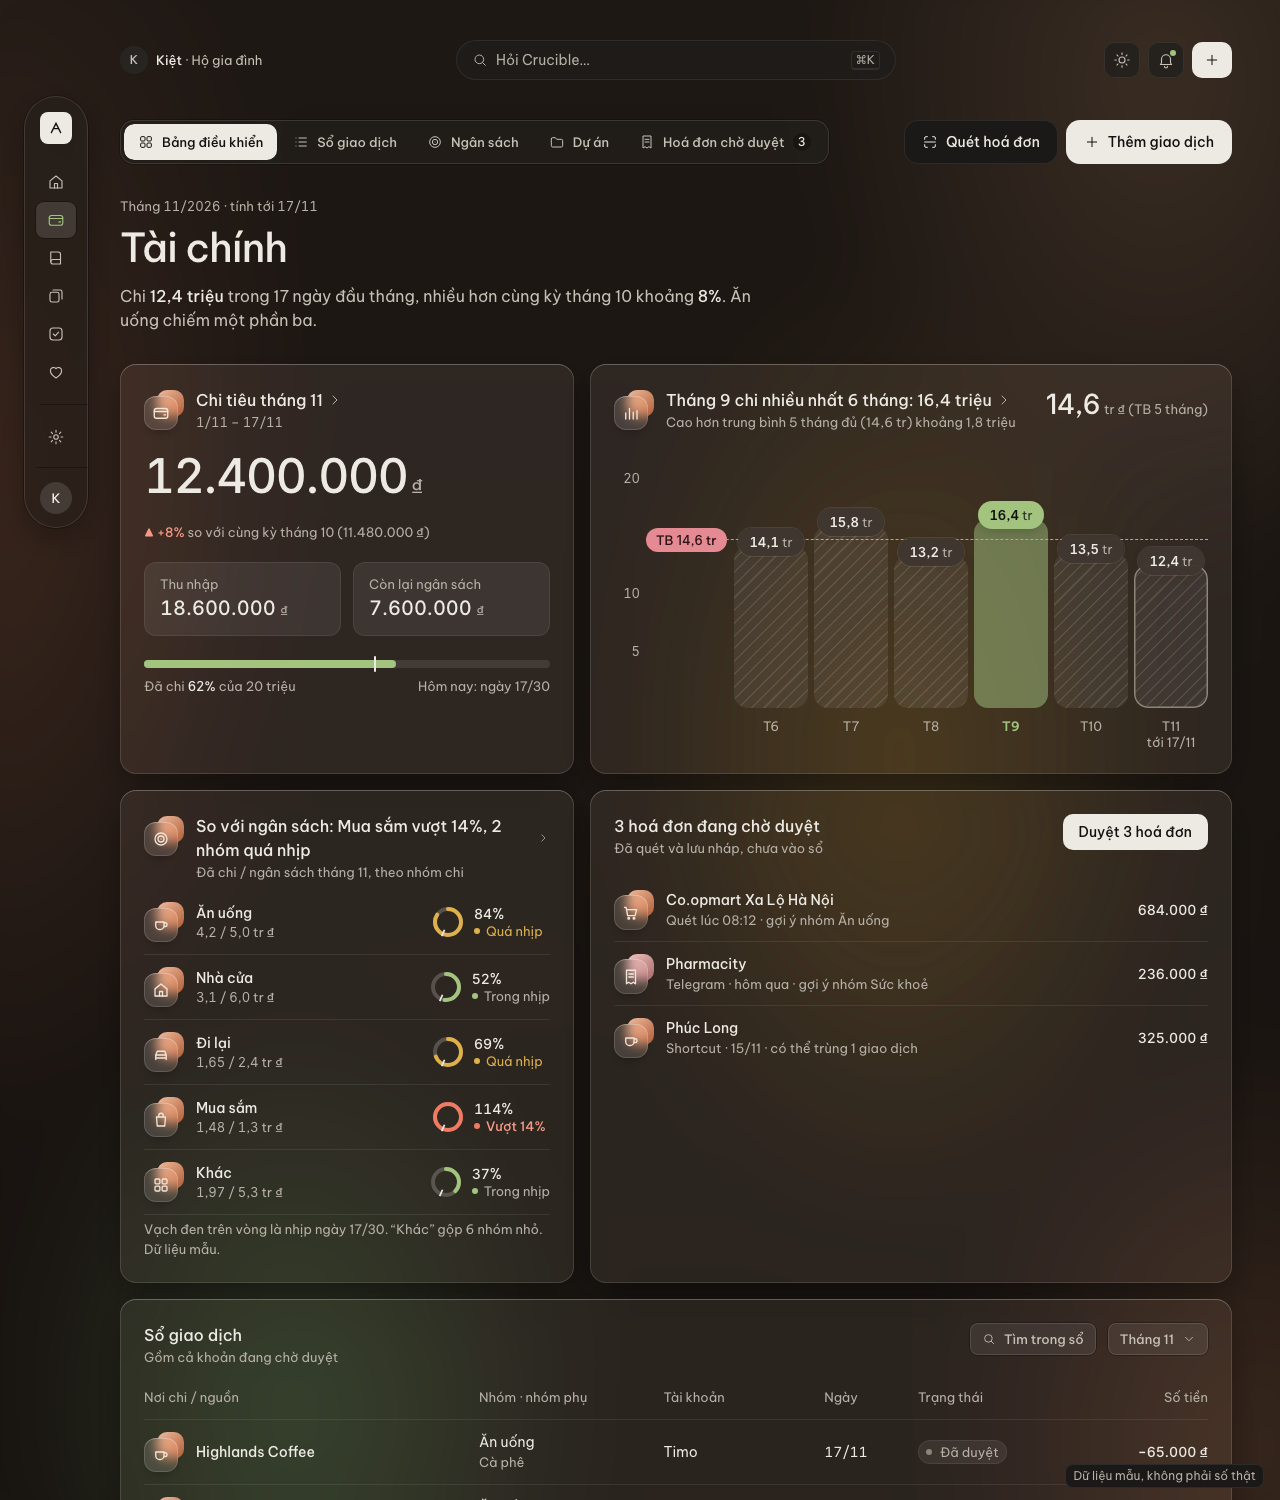
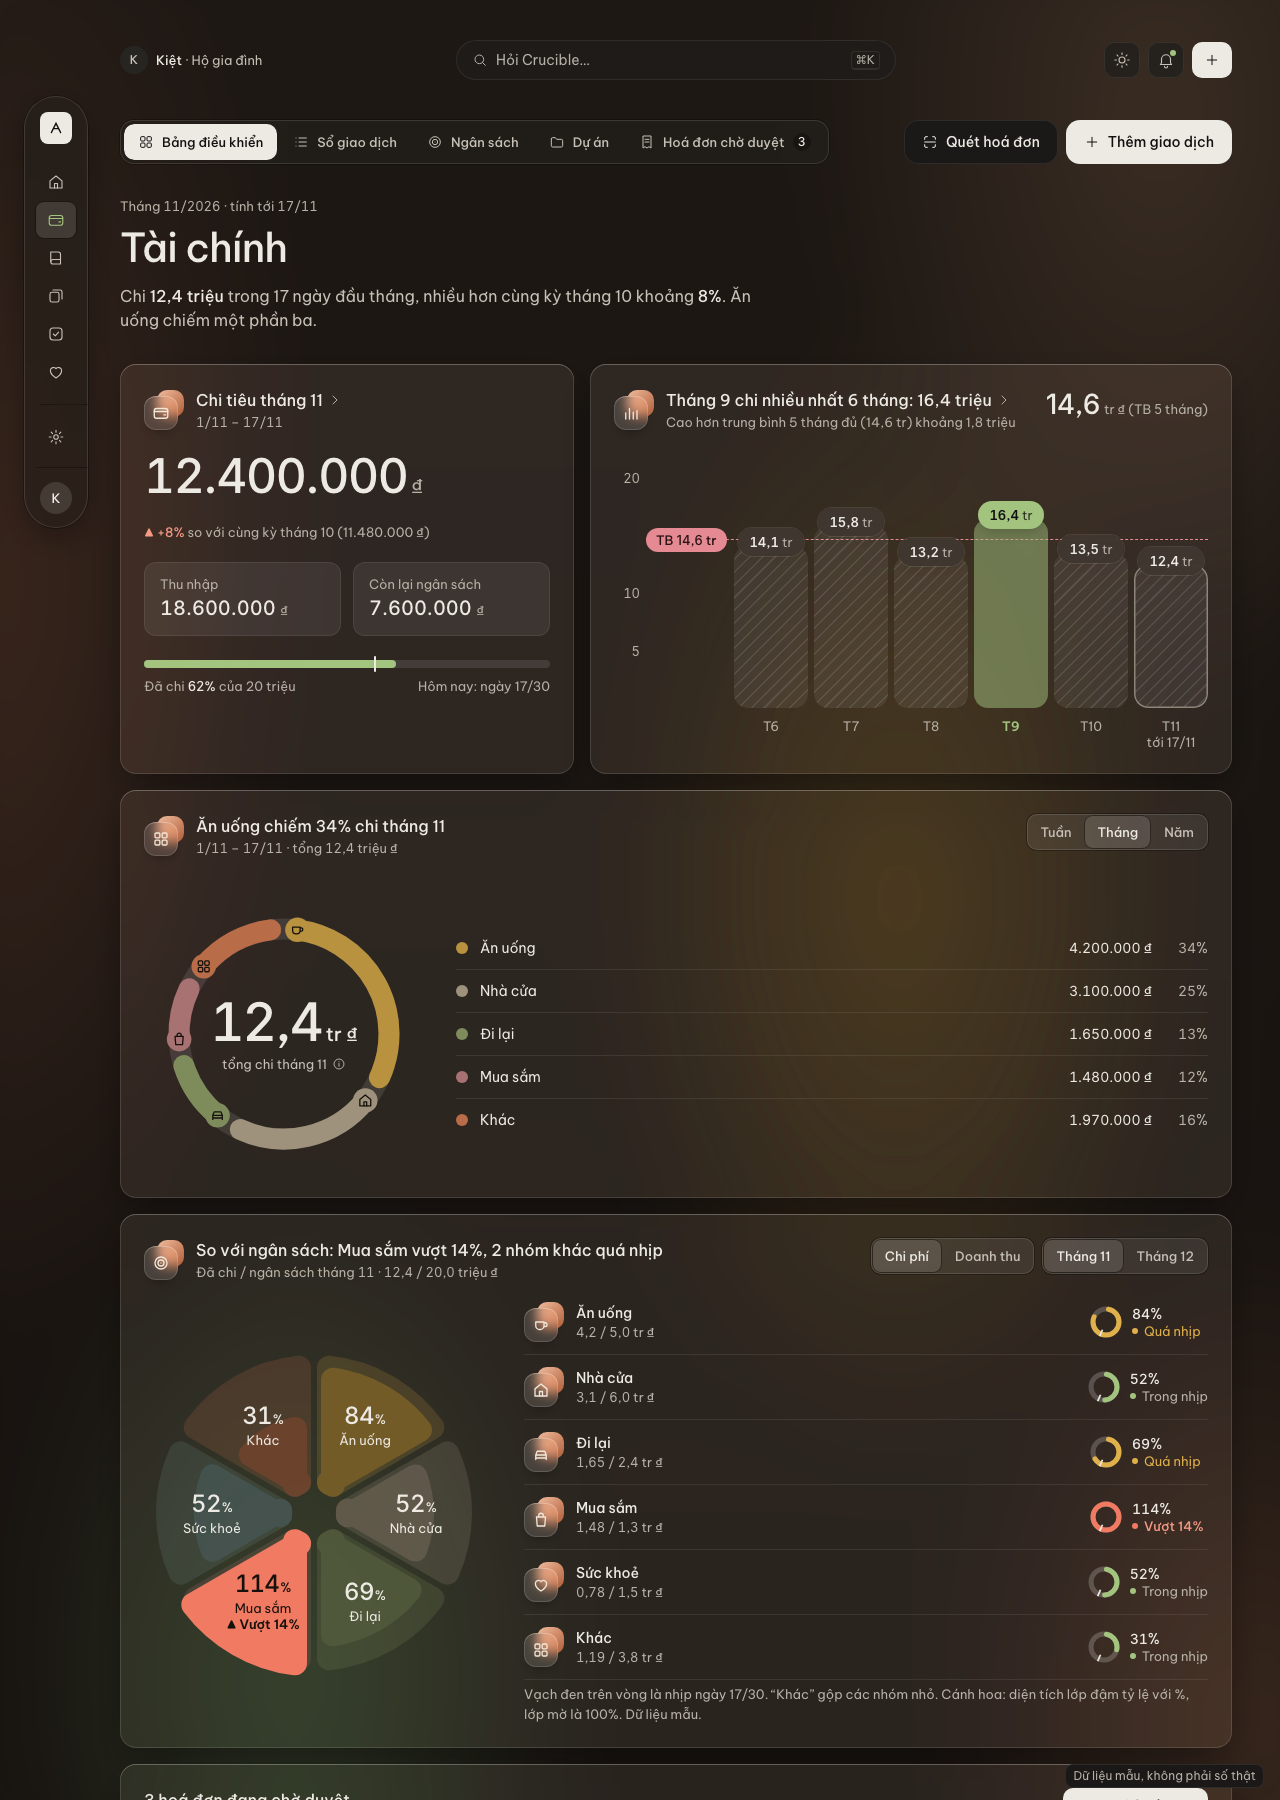
Demo sạch: thẻ So với ngân sách thêm biểu đồ cánh hoa (ảnh 28.png) — lớp mờ 100%, lớp đậm diện tích tỷ lệ %, công tắc Chi phí/Doanh thu, trạng thái chưa có số liệu (Tháng 12), vượt ngân sách đỏ / vượt mục tiêu thu xanh (dữ liệu mẫu)

diff --git a/1991-new-design/demo/clean/demo.html b/1991-new-design/demo/clean/demo.html
@@ -565,6 +565,36 @@ html[data-theme="dark"]{--rg-1:#B8923F;--rg-2:#9E927C;--rg-3:#7E8C5C;--rg-4:#A87
   .hd.hs .sum{order:3;width:100%;text-align:left;font-size:24px}
   .bud .rg{gap:8px}.bud .rg>div{min-width:72px}
 }
+
+/* Biểu đồ "cánh hoa" (ảnh 28.png): mỗi nhóm một cánh quạt góc bằng nhau. Lớp ngoài mờ = 100% ngân sách/mục tiêu;
+   lớp trong đậm mọc từ tâm, bán kính r = r0 + (R − r0)·√f nên DIỆN TÍCH tỷ lệ với %. Màu = --rg-* như vòng cung rời;
+   chữ luôn là --ink (đạt ≥4.5:1 trên cả lớp mờ lẫn lớp đậm), riêng cánh đỏ/xanh dùng chữ tương phản của --bad/--good. */
+:root{--pt-mix:100%;--pt-tint:.32;--on-bad:#fff;--on-good:#fff}
+html[data-theme="dark"]{--pt-mix:64%;--pt-tint:.2;--on-bad:#16100B;--on-good:#16100B}
+.psplit{display:grid;grid-template-columns:minmax(0,340px) minmax(0,1fr);gap:40px;align-items:center;margin-top:16px}
+.petal{position:relative;width:100%;max-width:340px;aspect-ratio:1;margin:0 auto}
+.petal svg{display:block;width:100%;height:100%;overflow:visible}
+.petal .pt{fill:var(--rg-c);stroke:var(--rg-c);opacity:var(--pt-tint)} /* opacity (không phải fill/stroke-opacity) để nét viền và nền hoà một lớp, không lộ vành đậm */
+.petal .pd{fill:color-mix(in srgb,var(--rg-c) var(--pt-mix),#000);stroke:color-mix(in srgb,var(--rg-c) var(--pt-mix),#000)}
+.petal .pd.over{fill:var(--bad);stroke:var(--bad)}
+.petal .pd.over.good{fill:var(--good);stroke:var(--good)}
+.petal.empty svg{opacity:.75}
+.petal .pl{position:absolute;transform:translate(-50%,-50%);text-align:center;color:var(--ink);pointer-events:none;line-height:1.15;max-width:25%}
+.petal .pl .n{display:block;font-family:var(--fig);font-variant-numeric:tabular-nums;font-size:24px;font-weight:500;letter-spacing:-.03em;line-height:26px}
+.petal .pl .n small{font-size:13px;letter-spacing:0;margin-left:1px}
+.petal .pl .g{display:block;font-size:13px;line-height:16px;white-space:nowrap}
+.petal .pl .o{display:block;font-size:13px;line-height:16px;font-weight:600;white-space:nowrap}
+.petal .pl.over{color:var(--on-bad)}.petal .pl.over.good{color:var(--on-good)}
+.petal.empty .pl{color:var(--ink2)}
+.hd.hs .segs{display:flex;gap:8px;flex:none;flex-wrap:wrap;justify-content:flex-end}
+.bud .empty-box{text-align:left}
+.bud .empty-box .eh{font-size:20px;line-height:28px;font-weight:500;letter-spacing:-.02em}
+.bud .empty-box .ed{color:var(--ink2);margin-top:6px;max-width:44ch}
+.bud .empty-box .btn{margin-top:16px;height:44px;padding:0 24px;border-radius:999px;background:var(--btn);color:var(--btn-ink);font-weight:500;display:inline-flex;align-items:center;gap:8px}
+.bud .empty-box .btn svg{width:18px;height:18px}
+.bud .rg .st.g{color:var(--good-t);font-weight:500}.bud .rg .st.g i{background:var(--good)}
+@media (max-width:760px){.psplit{grid-template-columns:1fr;gap:20px}.hd.hs .segs{order:3;width:100%}.hd.hs .segs .seg{flex:1 1 auto}.hd.hs .segs .seg button{flex:1}
+ .petal .pl .n{font-size:22px;line-height:24px}}
 </style>
 </head>
 <body>
@@ -699,16 +729,18 @@ html[data-theme="dark"]{--rg-1:#B8923F;--rg-2:#9E927C;--rg-3:#7E8C5C;--rg-4:#A87
           <div id="sixM" style="margin-top:8px"></div>
         </a>
 
-        <div class="card c7 fillcol">
+        <div class="card c12 fillcol">
           <div class="hd hs"><span class="gi spend"><svg data-i="grid"></svg></span><div class="grow"><div class="t" id="gTitle"></div><div class="s num" id="gSub"></div></div>
             <div class="seg" role="group" aria-label="Kỳ xem" id="gSeg"><button type="button" data-p="w">Tuần</button><button type="button" data-p="m" class="on" aria-pressed="true">Tháng</button><button type="button" data-p="y">Năm</button></div></div>
           <div class="split"><div class="ringbox sm" id="grpRing"></div><div class="glist" id="grpList"></div></div>
         </div>
 
-        <a class="card c5 bud" href="#">
-          <div class="hd"><span class="gi spend"><svg data-i="target"></svg></span><div class="grow"><div class="t">So với ngân sách: Mua sắm vượt 14%, 2 nhóm quá nhịp<svg data-i="chev"></svg></div><div class="s">Đã chi / ngân sách tháng 11, theo nhóm chi</div></div></div>
-          <div id="budget"></div>
-        </a>
+        <div class="card c12 bud" id="budCard">
+          <div class="hd hs"><span class="gi spend" id="bGi"><svg data-i="target"></svg></span><div class="grow"><div class="t" id="bTitle"></div><div class="s num" id="bSub"></div></div>
+            <div class="segs"><div class="seg" role="group" aria-label="Chế độ xem" id="bMode"><button type="button" data-m="chi">Chi phí</button><button type="button" data-m="thu">Doanh thu</button></div>
+            <div class="seg" role="group" aria-label="Kỳ xem" id="bPer"><button type="button" data-p="11">Tháng 11</button><button type="button" data-p="12">Tháng 12</button></div></div></div>
+          <div class="psplit"><div class="petal" id="petal"></div><div id="budget"></div></div>
+        </div>
 
         <div class="card c12">
           <div class="hd"><div class="grow"><div class="t">3 hoá đơn đang chờ duyệt</div><div class="s">Đã quét và lưu nháp, chưa vào sổ</div></div><button class="btn">Duyệt 3 hoá đơn</button></div>
@@ -935,23 +967,89 @@ vbars(document.getElementById('weekBars'),{max:220,ref:150,refLabel:'Mốc 150',
  {x:'28/9',v:120,lab:'120'},{x:'5/10',v:165,lab:'165'},{x:'12/10',v:140,lab:'140'},{x:'19/10',v:95,lab:'95'},
  {x:'26/10',v:180,lab:'180'},{x:'2/11',v:150,lab:'150'},{x:'9/11',sx:'tuần rồi',v:170,lab:'170',k:'acc'},{x:'16/11',sx:'tuần này',v:48,lab:'48',k:'part'}]});
 
-/* ===== So với ngân sách: vòng tiến độ từng nhóm (dữ liệu mẫu theo bảng Budget: categoryGroup, amount) =====
-   Dưới nhịp ngày = màu nhấn · vượt nhịp = cảnh báo · vượt 100% = --bad, vòng đầy + "Vượt n%". Vạch mực = nhịp ngày 17/30. */
+/* ===== So với ngân sách: cánh hoa + vòng tiến độ từng nhóm (dữ liệu mẫu theo bảng Budget: categoryGroup, amount) =====
+   Chi phí: dưới nhịp ngày = màu nhấn · vượt nhịp = cảnh báo · vượt 100% = --bad. Vạch mực = nhịp ngày 17/30.
+   Doanh thu: vượt mục tiêu là TỐT nên dùng --good, không phải đỏ (quyết định tạm, chờ chủ dự án xác nhận). */
 (function(){
  const PACE=17/30, C=2*Math.PI*13, SW=5;
  const fm=n=>(n/1e6).toLocaleString('vi-VN',{minimumFractionDigits:1,maximumFractionDigits:2});
- const r=[['Ăn uống','cup',4200000,5000000],['Nhà cửa','home',3100000,6000000],['Đi lại','car',1650000,2400000],['Mua sắm','bag',1480000,1300000],['Khác','grid',1970000,5300000]];
- document.getElementById('budget').innerHTML=r.map(([n,i,sp,bd])=>{
-  const p=sp/bd, pc=Math.round(p*100);
-  const cls=p>1?'x':(p>PACE?'w':''), col=p>1?'var(--bad)':(p>PACE?'var(--warn)':'var(--acc)');
-  const st=p>1?`Vượt ${pc-100}%`:(p>PACE?'Quá nhịp':'Trong nhịp');
-  const full=p>=1, d=full?C:Math.max(p*C-SW,.1), off=full?0:-SW/2;
-  return `<div class="brow"><span class="gi spend">${ic(i)}</span><div><div class="nm">${n}</div><div class="am">${fm(sp)} / ${fm(bd)} tr ₫</div></div>
-  <div class="rg"><svg viewBox="0 0 32 32" role="img" aria-label="${n}: ${pc}% ngân sách"><circle class="trk" cx="16" cy="16" r="13" fill="none" stroke-width="5"/>
-   <circle cx="16" cy="16" r="13" fill="none" stroke="${col}" stroke-width="5" stroke-linecap="round" stroke-dasharray="${d} ${C}" stroke-dashoffset="${off}" transform="rotate(-90 16 16)"/>
-   <line x1="16" y1="0.5" x2="16" y2="7.5" stroke="var(--ink)" stroke-width="1.75" transform="rotate(${PACE*360} 16 16)"/></svg>
-   <div><span class="pc">${pc}%</span><span class="st ${cls}"><i></i>${st}</span></div></div></div>`;}).join('')
-  +`<div class="note" style="margin-top:4px">Vạch đen trên vòng là nhịp ngày 17/30. “Khác” gộp 6 nhóm nhỏ. Dữ liệu mẫu.</div>`;
+ const fs=n=>(n/1e6).toLocaleString('vi-VN',{maximumFractionDigits:1})+'tr';
+ /* [tên, icon, màu --rg-k, đã có, ngân sách/mục tiêu] — tổng chi 12,4 tr / 20 tr khớp thẻ Chi tiêu; tổng thu 18,6 tr khớp "Thu nhập" */
+ const DATA={
+  chi:{gi:'spend',empty:'Thêm khoản chi',rows:[['Ăn uống','cup',1,4200000,5000000],['Nhà cửa','home',2,3100000,6000000],['Đi lại','car',3,1650000,2400000],['Mua sắm','bag',4,1480000,1300000],['Sức khoẻ','heart',6,780000,1500000],['Khác','grid',5,1190000,3800000]]},
+  thu:{gi:'fin',empty:'Thêm khoản thu',rows:[['Lương','cash',3,15000000,15000000],['Thưởng','trophy',1,1500000,3000000],['Dự án','folder',2,1620000,1500000],['Đầu tư','trend',6,380000,1000000],['Khác','grid',5,100000,500000]]}};
+ const VB=340,CX=170,R=158,R0=22,CR=12,GAP=6,PAD=4;
+ const f2=n=>n.toFixed(2);
+ /* Một cánh quạt bo góc: dựng hình quạt THU VÀO cr rồi tô + vẽ viền dày 2·cr (linejoin round) ⇒ mọi góc bo bán kính cr,
+    khe giữa hai cánh luôn rộng gap, lỗ tâm bán kính R0. Toạ độ cục bộ: trục x = đường phân giác của cánh. */
+ function wedge(th,rOut,gap,cr){
+  const d=gap/2+cr, ri=R0+cr, ro=Math.max(rOut-cr,ri+1), c=Math.cos(th), s=Math.sin(th);
+  const pt=(rho,sg)=>{const t=Math.sqrt(Math.max(rho*rho-d*d,0));return [d*s+t*c, sg*(-d*c+t*s)]}; /* giao đường biên dời d với đường tròn bán kính rho */
+  const [a,b]=pt(ri,-1),[e,f]=pt(ro,-1),[g,h]=pt(ro,1),[i,j]=pt(ri,1);
+  return `M${f2(a)} ${f2(b)}L${f2(e)} ${f2(f)}A${f2(ro)} ${f2(ro)} 0 0 1 ${f2(g)} ${f2(h)}L${f2(i)} ${f2(j)}A${f2(ri)} ${f2(ri)} 0 0 0 ${f2(a)} ${f2(b)}Z`;
+ }
+ function petal(rows,mode,empty){
+  const N=rows.length, th=Math.PI/N, pk=mode==='thu';
+  let sh='',lb='';
+  rows.forEach(([n,ic_,k,sp,bd],idx)=>{
+   const f=empty?0:sp/bd, rot=-90+(idx+.5)*360/N, over=f>1;
+   const t=`transform="translate(${CX} ${CX}) rotate(${f2(rot)})"`;
+   sh+=`<g style="--rg-c:var(--rg-${k})"><path class="pt" ${t} d="${wedge(th,R,GAP,CR)}" stroke-width="${2*CR}" stroke-linejoin="round"/>`;
+   if(f>0){
+    /* r = r0 + (R − r0)·√f  ⇒ diện tích lớp trong ∝ f (căn bậc hai bù cho việc diện tích tăng theo r²). f>1: nhô ra ngoài mép tối đa 6px */
+    const r=f<=1?R0+(R-R0)*Math.sqrt(f):R+Math.min(6,(f-1)*40);
+    const op=over?1:.6+.4*Math.min(f,1); /* độ đậm tăng theo % */
+    sh+=`<path class="pd${over?' over'+(pk?' good':''):''}" ${t} d="${wedge(th,r,GAP+PAD*2,CR)}" stroke-width="${2*CR}" stroke-linejoin="round" opacity="${f2(op)}"/>`;}
+   sh+='</g>';
+   const a=rot*Math.PI/180, rho=empty?112:102, x=(CX+rho*Math.cos(a))/VB*100, y=(CX+rho*Math.sin(a))/VB*100, pc=Math.round(f*100);
+   lb+=`<div class="pl${over?' over'+(pk?' good':''):''}" style="left:${f2(x)}%;top:${f2(y)}%">`+
+    (empty?`<span class="n" style="font-size:18px;line-height:22px">${fs(bd)}</span><span class="g">${n}</span>`
+     :`<span class="n">${pc}<small>%</small></span><span class="g">${n}</span>${over?`<span class="o">▲ Vượt ${pc-100}%</span>`:''}`)+`</div>`;
+  });
+  return `<svg viewBox="0 0 ${VB} ${VB}" role="img" aria-label="${empty?'Chưa có số liệu: ':''}${rows.map(([n,,,sp,bd])=>`${n} ${empty?'ngân sách '+fs(bd):Math.round(sp/bd*100)+'%'}`).join(', ')}">${sh}</svg>${lb}`;
+ }
+ function draw(mode,per){
+  const D=DATA[mode], thu=mode==='thu', empty=per==='12', rows=D.rows;
+  const tot=rows.reduce((x,r)=>x+r[3],0), bud=rows.reduce((x,r)=>x+r[4],0);
+  const pet=document.getElementById('petal');
+  pet.className='petal'+(empty?' empty':'');
+  pet.innerHTML=petal(rows,mode,empty);
+  document.getElementById('bGi').className='gi '+D.gi;
+  const T=document.getElementById('bTitle'), S=document.getElementById('bSub');
+  const overs=rows.filter(r=>r[3]>r[4]);
+  if(empty){
+   T.innerHTML=thu?'Tháng 12 chưa ghi khoản thu nào':'Tháng 12 chưa ghi khoản chi nào';
+   S.textContent=`Mục tiêu thu ${fm(bud)} triệu ₫`.replace('Mục tiêu thu',thu?'Mục tiêu thu':'Ngân sách')+` · ${rows.length} nhóm`;
+   document.getElementById('budget').innerHTML=`<div class="empty-box"><div class="eh">${thu?'Chưa ghi khoản thu nào tháng 12':'Chưa ghi khoản nào tháng 12'}</div>
+    <div class="ed">${thu?'Mục tiêu thu':'Ngân sách'} ${fm(bud)} triệu ₫ đã đặt cho ${rows.length} nhóm. Cánh sẽ đậm dần khi bạn ghi ${thu?'thu nhập':'chi tiêu'}.</div>
+    <button type="button" class="btn">${ic('plus')}${D.empty}</button></div>`;
+  }else{
+   const pc=Math.round(tot/bud*100);
+   if(thu){const o=overs[0], full=rows.filter(r=>r[3]===r[4]);
+    T.innerHTML=`Thu đạt ${pc}% mục tiêu: ${o?`${o[0]} vượt ${Math.round((o[3]/o[4]-1)*100)}%`:''}${full.length?`${o?', ':''}${full[0][0]} đã đủ`:''}`;}
+   else{const o=overs[0], q2=rows.filter(r=>r[3]<=r[4]&&r[3]/r[4]>PACE).length;
+    T.innerHTML=`${o[0]} vượt ${Math.round((o[3]/o[4]-1)*100)}%, ${q2} nhóm khác quá nhịp`.replace(/^/,'So với ngân sách: ');}
+   S.textContent=thu?`Đã thu / mục tiêu thu tháng 11 · ${fm(tot)} / ${fm(bud)} triệu ₫`:`Đã chi / ngân sách tháng 11 · ${fm(tot)} / ${fm(bud)} triệu ₫`;
+   document.getElementById('budget').innerHTML=rows.map(([n,i,k,sp,bd])=>{
+    const p=sp/bd, pcn=Math.round(p*100);
+    const cls=thu?(p>=1?'g':''):(p>1?'x':(p>PACE?'w':'')), col=thu?(p>=1?'var(--good)':'var(--acc)'):(p>1?'var(--bad)':(p>PACE?'var(--warn)':'var(--acc)'));
+    const st=p>1?`Vượt ${pcn-100}%`:(thu?(p>=1?'Đạt mục tiêu':'Đang tiến tới'):(p>PACE?'Quá nhịp':'Trong nhịp'));
+    const full=p>=1, d=full?C:Math.max(p*C-SW,.1), off=full?0:-SW/2;
+    return `<div class="brow"><span class="gi ${D.gi}">${ic(i)}</span><div><div class="nm">${n}</div><div class="am">${fm(sp)} / ${fm(bd)} tr ₫</div></div>
+    <div class="rg"><svg viewBox="0 0 32 32" role="img" aria-label="${n}: ${pcn}% ${thu?'mục tiêu':'ngân sách'}"><circle class="trk" cx="16" cy="16" r="13" fill="none" stroke-width="5"/>
+     <circle cx="16" cy="16" r="13" fill="none" stroke="${col}" stroke-width="5" stroke-linecap="round" stroke-dasharray="${d} ${C}" stroke-dashoffset="${off}" transform="rotate(-90 16 16)"/>
+     ${thu?'':`<line x1="16" y1="0.5" x2="16" y2="7.5" stroke="var(--ink)" stroke-width="1.75" transform="rotate(${PACE*360} 16 16)"/>`}</svg>
+     <div><span class="pc">${pcn}%</span><span class="st ${cls}"><i></i>${st}</span></div></div></div>`;}).join('')
+    +`<div class="note" style="margin-top:4px">${thu?'Vượt mục tiêu thu là tốt nên tô xanh.':'Vạch đen trên vòng là nhịp ngày 17/30. “Khác” gộp các nhóm nhỏ.'} Cánh hoa: diện tích lớp đậm tỷ lệ với %, lớp mờ là 100%. Dữ liệu mẫu.</div>`;
+  }
+  document.querySelectorAll('#bMode button').forEach(b=>{const on=b.dataset.m===mode;b.classList.toggle('on',on);b.setAttribute('aria-pressed',on)});
+  document.querySelectorAll('#bPer button').forEach(b=>{const on=b.dataset.p===per;b.classList.toggle('on',on);b.setAttribute('aria-pressed',on)});
+  cur={mode,per};
+ }
+ let cur={mode:'chi',per:'11'};
+ document.querySelectorAll('#bMode button').forEach(b=>b.onclick=()=>draw(b.dataset.m,cur.per));
+ document.querySelectorAll('#bPer button').forEach(b=>b.onclick=()=>draw(cur.mode,b.dataset.p));
+ window.drawBud=draw; draw('chi','11');
 })();
 
 /* ===== Sức khoẻ ===== */
@@ -998,6 +1096,7 @@ document.querySelectorAll('.nav[data-view]').forEach(b=>b.onclick=()=>show(b.dat
 document.getElementById('themeBtn').onclick=()=>theme(root.dataset.theme==='dark'?'light':'dark');
 document.getElementById('pinBtn').onclick=()=>pin(!side.classList.contains('pinned'));
 document.querySelectorAll('a.card').forEach(a=>a.onclick=e=>e.preventDefault());
+if(q.get('mode')||q.get('per'))drawBud(q.get('mode')==='thu'?'thu':'chi',q.get('per')==='12'?'12':'11');
 show(q.get('v')||'tongquan');theme(q.get('theme')||'light');
 let saved='';try{saved=localStorage.getItem('crucible-pin')||''}catch(e){}
 pin(q.get('side')==='pin'||(!q.get('side')&&!!saved));
